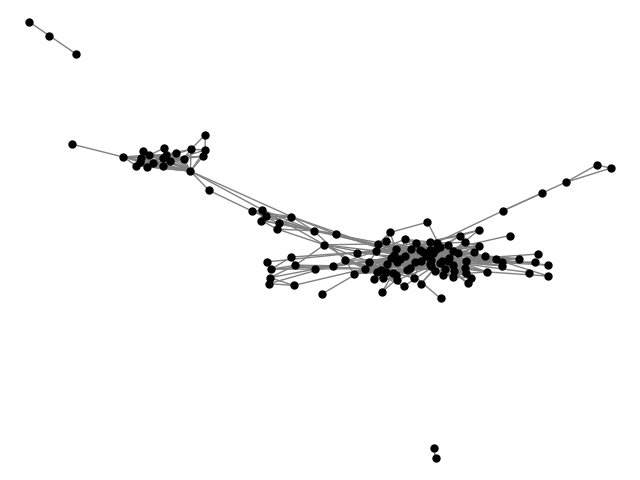
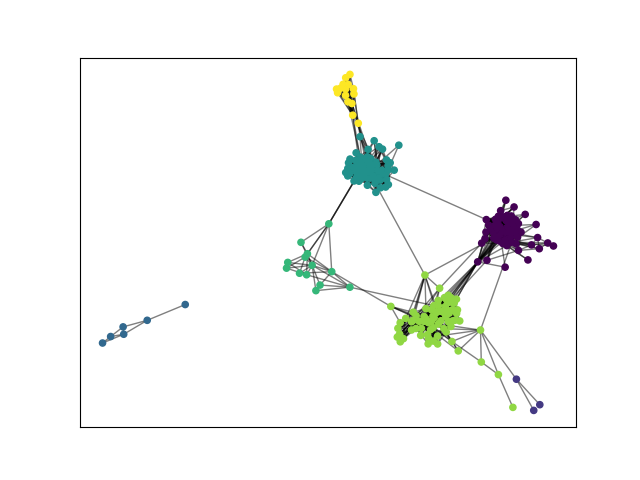
homework05: tests: plot communities

diff --git a/homework05/test.py b/homework05/test.py
@@ -1,54 +1,24 @@
-from vkapi.config import VK_CONFIG
-import requests
 import vkapi.friends as fr
-import matplotlib.pyplot as plt
 
+import community as community_louvain
+import matplotlib.cm as cm
+import matplotlib.pyplot as plt
 import networkx as nx
 
-# domain = VK_CONFIG["domain"]
-# access_token = VK_CONFIG["access_token"]
-# v = VK_CONFIG["version"]
-# # user_id = '459560428'
-# # fields = 'sex'
-# source_uid = '459560428'
-# target_uids = ['817934', '437397158']#['4744933']
-# order = ""
-# count = ""
-# offset = 0
 
-# # query = f"{domain}/friends.get?access_token={access_token}&user_id={user_id}&fields={fields}&v={v}"
-# query = f"{domain}/friends.getMutual?\
-#             access_token={access_token}&\
-#             source_uid={source_uid}&\
-#             target_uids={'' if (target_uids == None or target_uids == []) else ','.join(target_uids)}&\
-#             order={order}&\
-#             count={count}&\
-#             offset={offset}&\
-#             v={v}".replace(" ", "")
-# print(query)
-# response = requests.get(query)
-# print(response.json())
-
-
-
-# friends_response = fr.get_friends(user_id=817934, fields=["nickname"])
-# active_users = [user["id"] for user in friends_response.items if not user.get("deactivated") and not user.get("is_closed")]
-# print(len(active_users))
-
-# mutual_friends = fr.get_mutual(source_uid=817934, target_uids=active_users)
-
-# print(mutual_friends)
-
-options = {
-    'node_color': 'black',
-    'edge_color': 'grey',
-    'node_size': 25,
-    'width': 1,
-}
-
-net = fr.ego_network(user_id=817934)
+# Creating graph
+net = fr.ego_network(user_id=459560428)
 g = nx.Graph()
 g.add_edges_from(net)
-print(g)
-nx.draw(g, **options)
+
+# Finding partitios
+partition = community_louvain.best_partition(g)
+
+pos = nx.spring_layout(g)
+cmap = cm.get_cmap('viridis', max(partition.values()) + 1)
+nx.draw_networkx_nodes(g, pos, partition.keys(), node_size=20,
+                       cmap=cmap, node_color=list(partition.values()))
+nx.draw_networkx_edges(g, pos, alpha=0.5)
+
+# Save graph to picture
 plt.savefig("mygraph.png")
